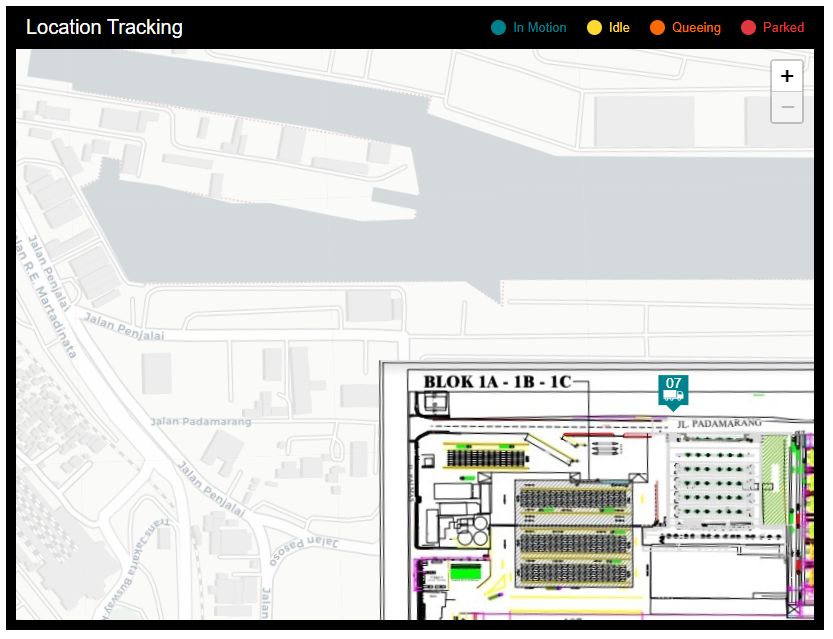
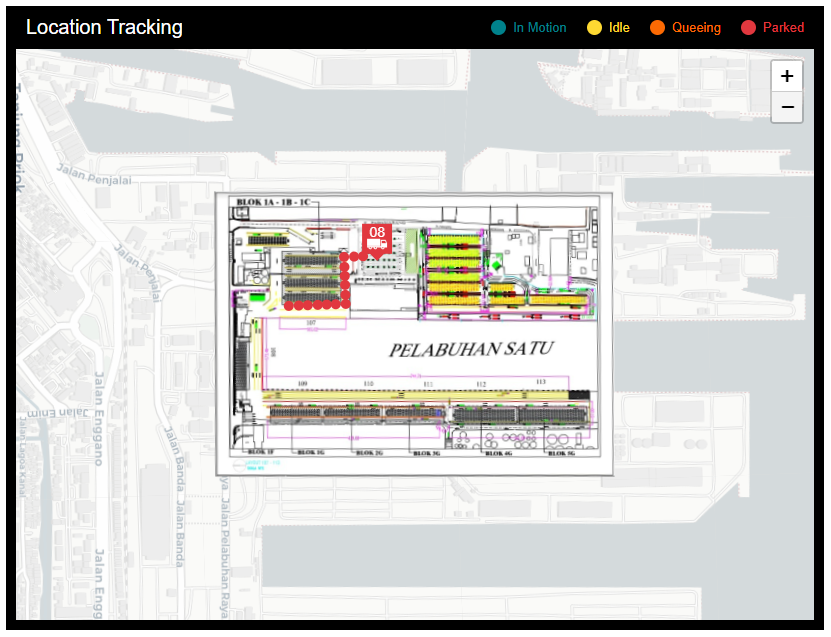
update

diff --git a/README.md b/README.md
@@ -3,7 +3,7 @@
   <br>
   <!-- <a href="http://www.amitmerchant.com/electron-markdownify"><img src="https://raw.githubusercontent.com/amitmerchant1990/electron-markdownify/master/app/img/markdownify.png" alt="Markdownify" width="200"></a> -->
   <br>
-  Export Excel to Json FIle
+  Location Tracking App
   <br>
 </h1>
 
@@ -11,13 +11,16 @@
 
 <!-- <h4 align="center">A minimal Markdown Editor desktop app built on top of <a target="_blank">Electron</a>.</h4> -->
 
-![Chat Preview](https://github.com/zainuddin-maker/Export-Excel-to-Json/blob/master/theapp.PNG?raw=true)
+![Chat Preview](https://github.com/zainuddin-maker/Location-Tracking/blob/master/App.PNG?raw=true)
 <!-- ![screenshot](https://github.com/zainuddin-maker/Export-Excel-to-Json/blob/master/Convert_excel_to_JSON.mp4?raw=true)
 
 https://github.com/zainuddin-maker/Export-Excel-to-Json/blob/master/Convert_excel_to_JSON.mp4 -->
 
 
-This application is used to export excel data to json, with the input offset, this input is used to select row 1 - the offset is not considered, so offset + 1 becomes the key of the json data
+
+This application is used for tracking truck locations in 2D images that have been integrated with the actual map.
+
+
 
 ## Example Data
 <!-- - Data Value
